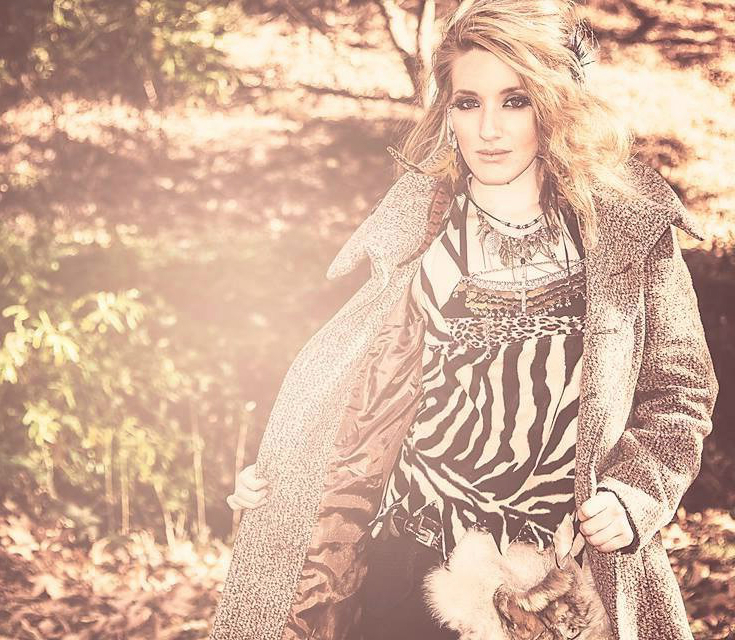
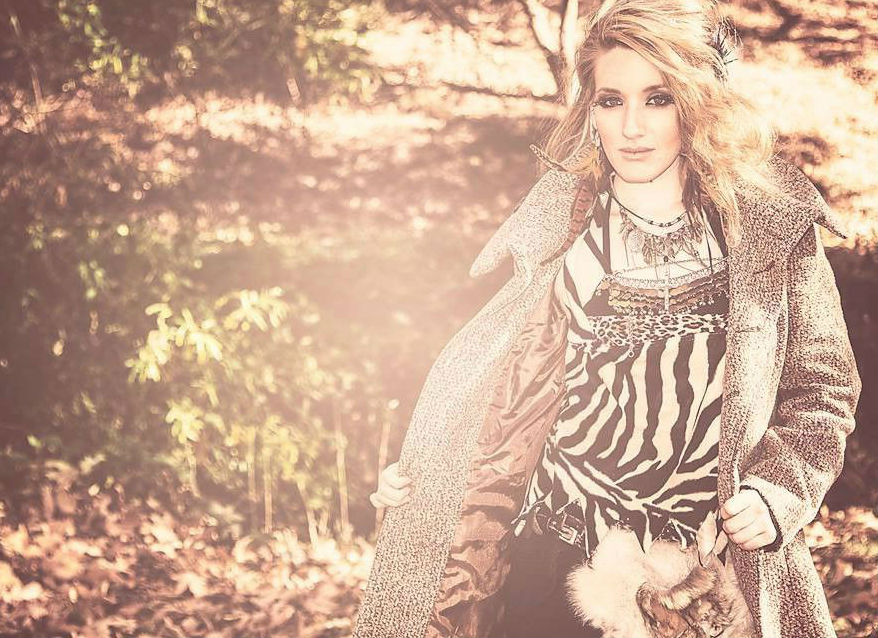
adding images

diff --git a/index.html b/index.html
@@ -111,7 +111,7 @@
 	<!-- Hero section -->
 	<section class="hero-section">
 		<div class="hero-slider owl-carousel">
-			<div class="hs-item set-bg" data-setbg="img/jessicabg-2.jpg">
+			<div class="hs-item set-bg" data-setbg="img/jessicabg-3.jpg">
 				<div class="container">
 					<div class="row">
 						<div class="col-xl-6 col-lg-7 text-white">
